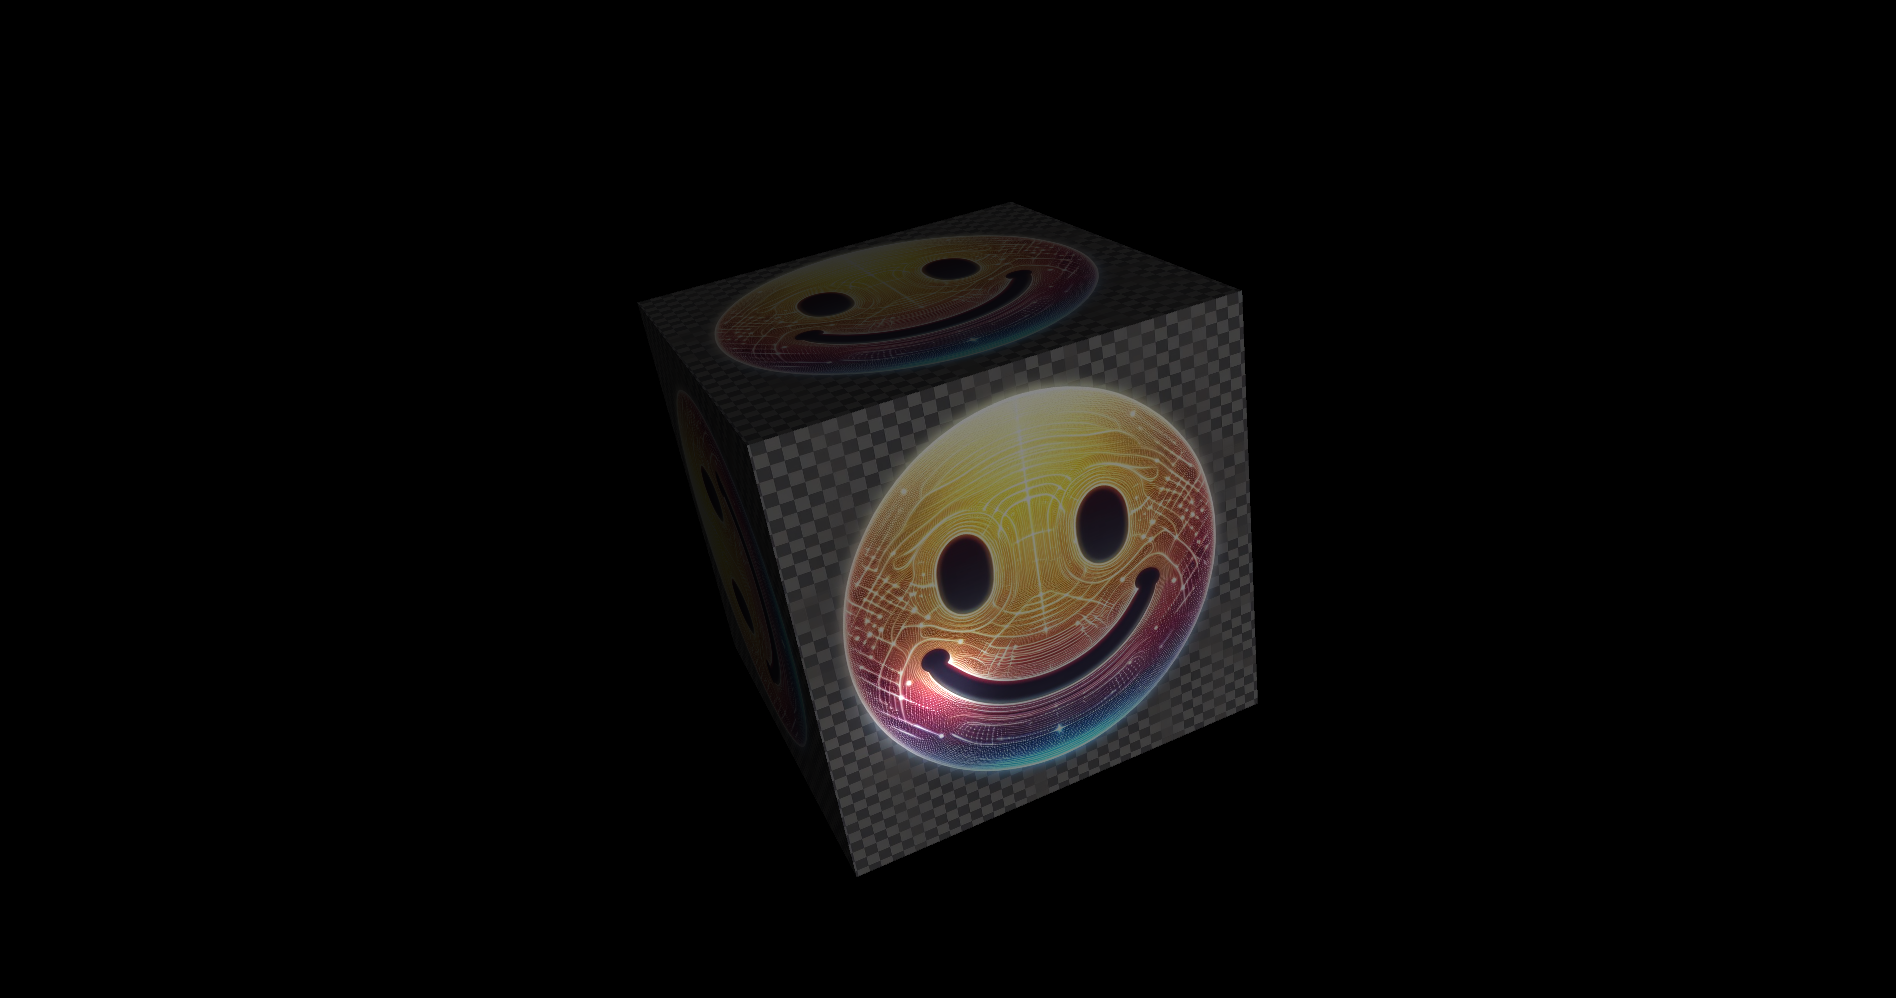
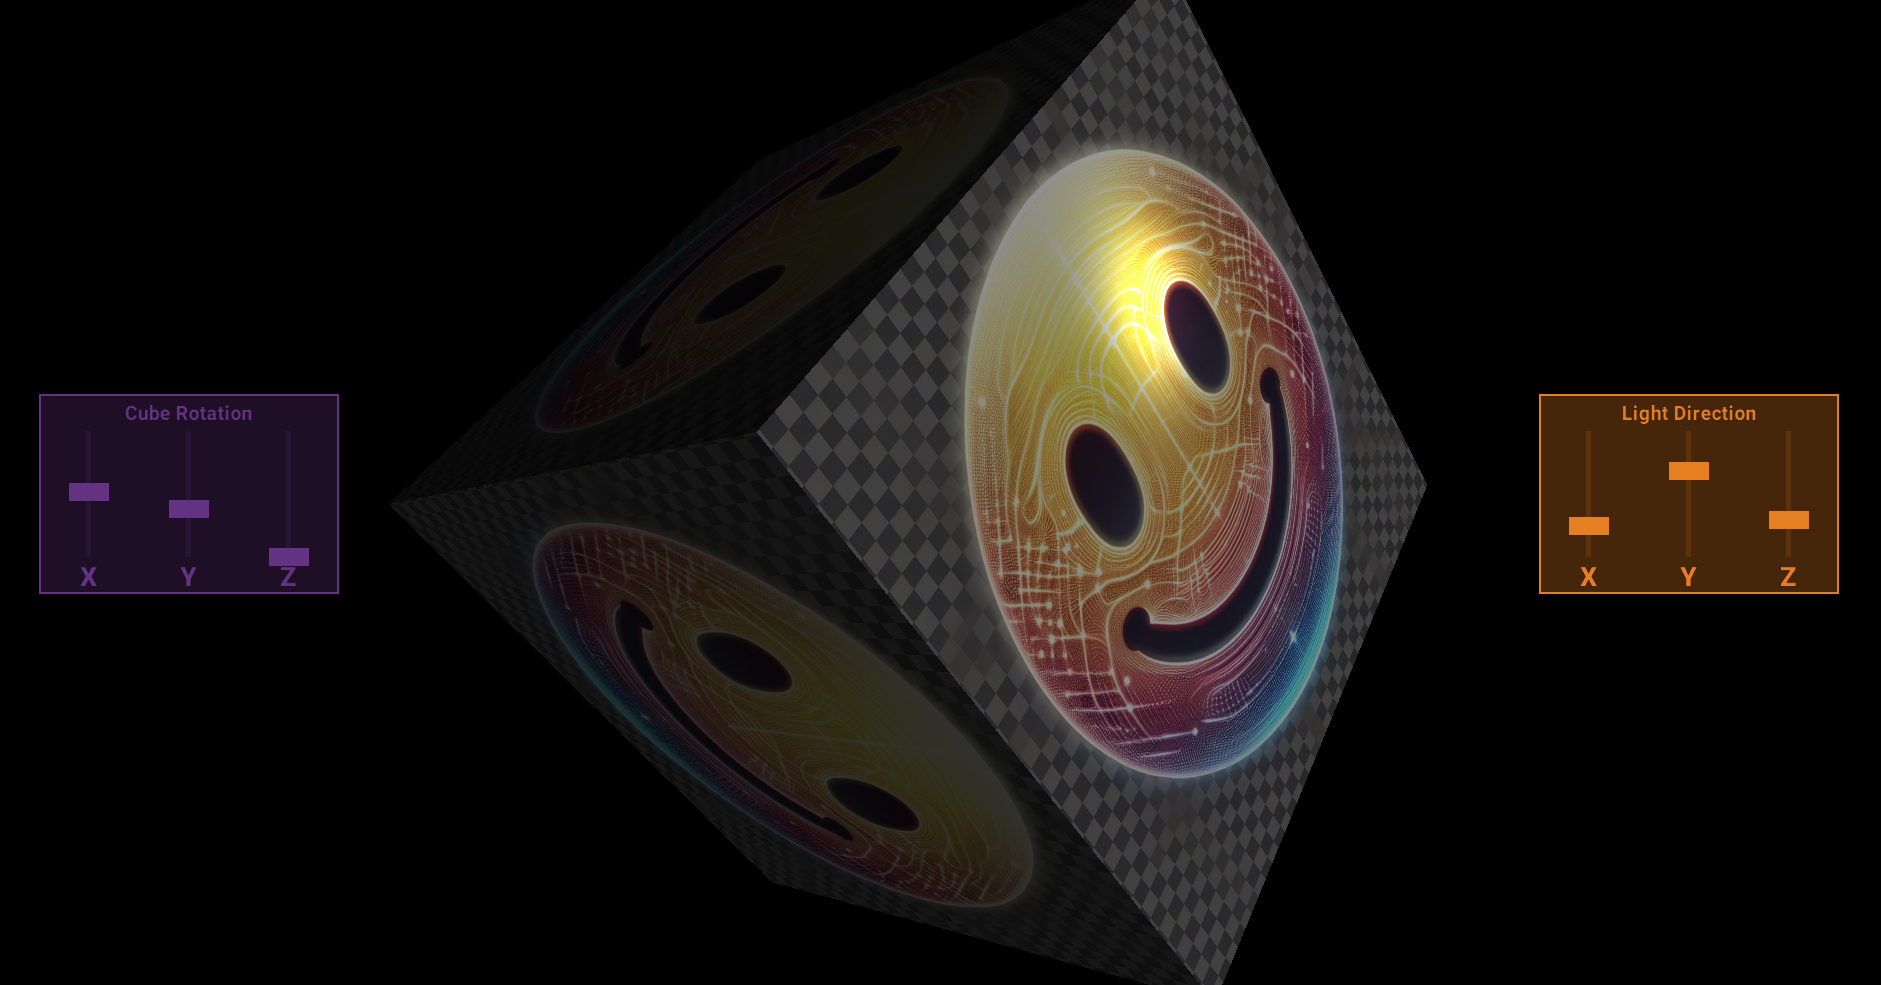
Fix TopCenter/BottomCenter anchoring and improve 3D example

Changed region(s): [[0.2775, 0.0, 0.7709, 1.0], [0.8017, 0.3959, 0.9867, 0.6091], [0.0, 0.3959, 0.185, 0.6091]]

diff --git a/examples/3d/object/viewer.go b/examples/3d/object/viewer.go
@@ -1,0 +1,203 @@
+package object
+
+import (
+	"github.com/go-gl/mathgl/mgl32"
+	"math"
+	"tonysoft.com/gfx"
+)
+
+func newRotationControl(window *gfx.Window, obj *gfx.Model) *gfx.View {
+	panel := gfx.NewView()
+	panel.SetAnchor(gfx.MiddleLeft)
+	panel.SetMarginLeft(.1)
+	panel.SetScale(mgl32.Vec3{0.3, .2})
+	panel.SetFillColor(gfx.Opacity(gfx.Purple, 0.3))
+	panel.SetBorderColor(gfx.Purple)
+	panel.SetBorderThickness(0.02)
+
+	rotSliderX := gfx.NewSlider(gfx.Vertical)
+	rotSliderY := gfx.NewSlider(gfx.Vertical)
+	rotSliderZ := gfx.NewSlider(gfx.Vertical)
+
+	panel.AddChild(rotSliderX)
+	panel.AddChild(rotSliderY)
+	panel.AddChild(rotSliderZ)
+
+	rotSliderX.SetWindow(window)
+	rotSliderX.SetScaleX(.3333)
+	rotSliderX.SetScaleY(.9)
+	rotSliderX.SetAnchor(gfx.MiddleLeft)
+	rotSliderX.SetFillColor(gfx.Transparent)
+	rotSliderX.Rail().SetColor(gfx.Darken(gfx.Purple, .6))
+	rotSliderX.Button().SetFillColor(gfx.Purple)
+	rotSliderX.Button().SetMouseEnterFillColor(gfx.Darken(gfx.Purple, .3))
+	rotSliderX.OnValueChanging(func(sender gfx.WindowObject, value float32) {
+		obj.SetRotationX(value * math.Pi)
+	})
+
+	rotSliderY.SetWindow(window)
+	rotSliderY.SetScaleX(.3333)
+	rotSliderY.SetScaleY(.9)
+	rotSliderY.SetAnchor(gfx.MiddleLeft)
+	rotSliderY.SetMarginLeft(rotSliderX.WorldScale().X() * 2)
+	rotSliderY.SetFillColor(gfx.Transparent)
+	rotSliderY.Rail().SetColor(gfx.Darken(gfx.Purple, .6))
+	rotSliderY.Button().SetFillColor(gfx.Purple)
+	rotSliderY.Button().SetMouseEnterFillColor(gfx.Darken(gfx.Purple, .3))
+	rotSliderY.OnValueChanging(func(sender gfx.WindowObject, value float32) {
+		obj.SetRotationY(value * math.Pi)
+	})
+
+	rotSliderZ.SetWindow(window)
+	rotSliderZ.SetScaleX(.3333)
+	rotSliderZ.SetScaleY(.9)
+	rotSliderZ.SetAnchor(gfx.MiddleLeft)
+	rotSliderZ.SetMarginLeft(rotSliderX.WorldScale().X() * 4)
+	rotSliderZ.SetFillColor(gfx.Transparent)
+	rotSliderZ.Rail().SetColor(gfx.Darken(gfx.Purple, .6))
+	rotSliderZ.Button().SetFillColor(gfx.Purple)
+	rotSliderZ.Button().SetMouseEnterFillColor(gfx.Darken(gfx.Purple, .3))
+	rotSliderZ.OnValueChanging(func(sender gfx.WindowObject, value float32) {
+		obj.SetRotationZ(value * math.Pi)
+	})
+
+	rotControlLabel := gfx.NewLabel()
+	rotControlLabel.SetText("Cube Rotation")
+	rotControlLabel.SetColor(gfx.Purple)
+	rotControlLabel.SetFontSize(.1)
+	rotControlLabel.SetAnchor(gfx.TopCenter)
+	rotControlLabel.SetMarginTop(.02)
+	panel.AddChild(rotControlLabel)
+
+	rotSliderXLabel := gfx.NewLabel()
+	rotSliderXLabel.SetColor(gfx.Purple)
+	rotSliderXLabel.SetFontSize(.15)
+	rotSliderXLabel.SetPositionY(-rotSliderX.WorldScale().Y() + (rotSliderX.WorldScale().Y() * .06))
+	rotSliderXLabel.SetText("X")
+	rotSliderX.AddChild(rotSliderXLabel)
+
+	rotSliderYLabel := gfx.NewLabel()
+	rotSliderYLabel.SetColor(gfx.Purple)
+	rotSliderYLabel.SetFontSize(.15)
+	rotSliderYLabel.SetPositionY(-rotSliderY.WorldScale().Y() + (rotSliderY.WorldScale().Y() * .06))
+	rotSliderYLabel.SetText("Y")
+	rotSliderY.AddChild(rotSliderYLabel)
+
+	rotSliderZLabel := gfx.NewLabel()
+	rotSliderZLabel.SetColor(gfx.Purple)
+	rotSliderZLabel.SetFontSize(.15)
+	rotSliderZLabel.SetPositionY(-rotSliderZ.WorldScale().Y() + (rotSliderZ.WorldScale().Y() * .06))
+	rotSliderZLabel.SetText("Z")
+	rotSliderZ.AddChild(rotSliderZLabel)
+
+	return panel
+}
+
+func newLightControl(window *gfx.Window, obj *gfx.Model) *gfx.View {
+	panel := gfx.NewView()
+
+	light := obj.GetLight(0)
+	if light == nil {
+		panel.SetScale(mgl32.Vec3{})
+		return panel
+	}
+
+	panel.SetAnchor(gfx.MiddleRight)
+	panel.SetMarginRight(.1)
+	panel.SetScale(mgl32.Vec3{0.3, .2})
+	panel.SetFillColor(gfx.Opacity(gfx.Orange, 0.3))
+	panel.SetBorderColor(gfx.Orange)
+	panel.SetBorderThickness(0.02)
+
+	dirSliderX := gfx.NewSlider(gfx.Vertical)
+	dirSliderY := gfx.NewSlider(gfx.Vertical)
+	dirSliderZ := gfx.NewSlider(gfx.Vertical)
+
+	panel.AddChild(dirSliderX)
+	panel.AddChild(dirSliderY)
+	panel.AddChild(dirSliderZ)
+
+	dirSliderX.SetWindow(window)
+	dirSliderX.SetScaleX(.3333)
+	dirSliderX.SetScaleY(.9)
+	dirSliderX.SetAnchor(gfx.MiddleLeft)
+	dirSliderX.SetFillColor(gfx.Transparent)
+	dirSliderX.Rail().SetColor(gfx.Darken(gfx.Orange, .6))
+	dirSliderX.Button().SetFillColor(gfx.Orange)
+	dirSliderX.Button().SetMouseEnterFillColor(gfx.Darken(gfx.Orange, .3))
+	dirSliderX.SetValue(.5)
+
+	dirSliderY.SetWindow(window)
+	dirSliderY.SetScaleX(.3333)
+	dirSliderY.SetScaleY(.9)
+	dirSliderY.SetAnchor(gfx.MiddleLeft)
+	dirSliderY.SetMarginLeft(dirSliderX.WorldScale().X() * 2)
+	dirSliderY.SetFillColor(gfx.Transparent)
+	dirSliderY.Rail().SetColor(gfx.Darken(gfx.Orange, .6))
+	dirSliderY.Button().SetFillColor(gfx.Orange)
+	dirSliderY.Button().SetMouseEnterFillColor(gfx.Darken(gfx.Orange, .3))
+	dirSliderY.SetValue(.5)
+
+	dirSliderZ.SetWindow(window)
+	dirSliderZ.SetScaleX(.3333)
+	dirSliderZ.SetScaleY(.9)
+	dirSliderZ.SetAnchor(gfx.MiddleLeft)
+	dirSliderZ.SetMarginLeft(dirSliderX.WorldScale().X() * 4)
+	dirSliderZ.SetFillColor(gfx.Transparent)
+	dirSliderZ.Rail().SetColor(gfx.Darken(gfx.Orange, .6))
+	dirSliderZ.Button().SetFillColor(gfx.Orange)
+	dirSliderZ.Button().SetMouseEnterFillColor(gfx.Darken(gfx.Orange, .3))
+	dirSliderZ.SetValue(.5)
+
+	dirSliderX.OnValueChanging(func(sender gfx.WindowObject, value float32) {
+		light.SetDirectionX((value * 20) - 11)
+	})
+	dirSliderY.OnValueChanging(func(sender gfx.WindowObject, value float32) {
+		light.SetDirectionY((value * 20) - 11)
+	})
+	dirSliderZ.OnValueChanging(func(sender gfx.WindowObject, value float32) {
+		light.SetDirectionZ((value * 20) - 11)
+	})
+
+	dirControlLabel := gfx.NewLabel()
+	dirControlLabel.SetText("Light Direction")
+	dirControlLabel.SetColor(gfx.Orange)
+	dirControlLabel.SetFontSize(.1)
+	dirControlLabel.SetAnchor(gfx.TopCenter)
+	dirControlLabel.SetMarginTop(.02)
+	panel.AddChild(dirControlLabel)
+
+	dirSliderXLabel := gfx.NewLabel()
+	dirSliderXLabel.SetColor(gfx.Orange)
+	dirSliderXLabel.SetFontSize(.15)
+	dirSliderXLabel.SetPositionY(-dirSliderX.WorldScale().Y() + (dirSliderX.WorldScale().Y() * .06))
+	dirSliderXLabel.SetText("X")
+	dirSliderX.AddChild(dirSliderXLabel)
+
+	dirSliderYLabel := gfx.NewLabel()
+	dirSliderYLabel.SetColor(gfx.Orange)
+	dirSliderYLabel.SetFontSize(.15)
+	dirSliderYLabel.SetPositionY(-dirSliderY.WorldScale().Y() + (dirSliderY.WorldScale().Y() * .06))
+	dirSliderYLabel.SetText("Y")
+	dirSliderY.AddChild(dirSliderYLabel)
+
+	dirSliderZLabel := gfx.NewLabel()
+	dirSliderZLabel.SetColor(gfx.Orange)
+	dirSliderZLabel.SetFontSize(.15)
+	dirSliderZLabel.SetPositionY(-dirSliderZ.WorldScale().Y() + (dirSliderZ.WorldScale().Y() * .06))
+	dirSliderZLabel.SetText("Z")
+	dirSliderZ.AddChild(dirSliderZLabel)
+
+	return panel
+}
+
+func NewViewer(window *gfx.Window, obj *gfx.Model) *gfx.View {
+	view := gfx.NewView()
+	view.SetMaintainAspectRatio(false)
+
+	view.AddChild(obj)
+	view.AddChild(newRotationControl(window, obj))
+	view.AddChild(newLightControl(window, obj))
+
+	return view
+}

diff --git a/color.go b/color.go
@@ -3,21 +3,22 @@ package gfx
 import "image/color"
 
 var (
-	White     = color.RGBA{R: 255, G: 255, B: 255, A: 255}
-	Black     = color.RGBA{A: 255}
-	LightGray = color.RGBA{R: 192, G: 192, B: 192, A: 255}
-	Gray      = color.RGBA{R: 128, G: 128, B: 128, A: 255}
-	DarkGray  = color.RGBA{R: 64, G: 64, B: 64, A: 255}
-	Red       = color.RGBA{R: 255, A: 255}
-	Green     = color.RGBA{G: 255, A: 255}
-	Blue      = color.RGBA{B: 255, A: 255}
-	Magenta   = color.RGBA{R: 255, B: 255, A: 255}
-	Yellow    = color.RGBA{R: 255, G: 255, A: 255}
-	Purple    = color.RGBA{R: 100, G: 50, B: 130, A: 255}
-	Orange    = color.RGBA{R: 230, G: 126, B: 34, A: 255}
-	Teal      = color.RGBA{R: 118, G: 215, B: 196, A: 255}
-	Maroon    = color.RGBA{R: 146, G: 43, B: 33, A: 255}
-	SkyBlue   = color.RGBA{R: 174, G: 170, B: 241, A: 255}
+	Transparent = color.RGBA{}
+	White       = color.RGBA{R: 255, G: 255, B: 255, A: 255}
+	Black       = color.RGBA{A: 255}
+	LightGray   = color.RGBA{R: 192, G: 192, B: 192, A: 255}
+	Gray        = color.RGBA{R: 128, G: 128, B: 128, A: 255}
+	DarkGray    = color.RGBA{R: 64, G: 64, B: 64, A: 255}
+	Red         = color.RGBA{R: 255, A: 255}
+	Green       = color.RGBA{G: 255, A: 255}
+	Blue        = color.RGBA{B: 255, A: 255}
+	Magenta     = color.RGBA{R: 255, B: 255, A: 255}
+	Yellow      = color.RGBA{R: 255, G: 255, A: 255}
+	Purple      = color.RGBA{R: 100, G: 50, B: 130, A: 255}
+	Orange      = color.RGBA{R: 230, G: 126, B: 34, A: 255}
+	Teal        = color.RGBA{R: 118, G: 215, B: 196, A: 255}
+	Maroon      = color.RGBA{R: 146, G: 43, B: 33, A: 255}
+	SkyBlue     = color.RGBA{R: 174, G: 170, B: 241, A: 255}
 )
 
 var (

diff --git a/examples/3d/view/cube.go b/examples/3d/view/cube.go
@@ -13,26 +13,25 @@ func NewCubeView(window *gfx.Window) gfx.WindowObject {
 	gfx.AddEmbeddedAsset("cube.mtl", models.Assets)
 	gfx.AddEmbeddedAsset("cube.png", textures.Assets)
 
-	camera1 := gfx.NewCamera()
-	camera1.
+	camera := gfx.NewCamera()
+	camera.
 		SetProjection(45, window.AspectRatio(), .5, 100).
 		SetUp(mgl32.Vec3{0, 1, 0}).
-		SetPosition(mgl32.Vec3{-2, 0, 2})
+		SetPosition(mgl32.Vec3{0, 0, 2})
 
-	light1 := gfx.NewLight()
-	light1.SetDirection(mgl32.Vec3{0, 0, -1})
+	light := gfx.NewLight()
+	light.SetDirection(mgl32.Vec3{0, 0, -1})
 
 	model := gfx.NewModel()
 	model.
 		SetOBJ("cube.obj").
 		SetMTL("cube.mtl").
 		SetTexture(gfx.NewTexture("cube.png")). // set using path to local PNG or loaded asset
-		//SetTexture(gfx.NewTexture(gfx.Red)). // set using a solid color
-		//SetTexture(gfx.NewTexture(myImage)). // set using *image.RGBA or *image.NRGBA
-		SetCamera(camera1).
-		AddLight(light1). // omit this for non-directional/specular lighting
+		//SetTexture(gfx.NewTexture(gfx.Red)).  // set using a solid color
+		//SetTexture(gfx.NewTexture(myImage)).  // set using *image.RGBA or *image.NRGBA
+		SetCamera(camera).
+		AddLight(light). // omit this for non-directional/non-specular lighting
 		SetName("Box")
 
-	rotObj := object.NewRotatingObject(model)
-	return rotObj
+	return object.NewViewer(window, model)
 }

diff --git a/light.go b/light.go
@@ -23,17 +23,35 @@ type Light struct {
 
 func (l *Light) Direction() mgl32.Vec3 {
 	l.stateMutex.Lock()
-	direction := mgl32.Vec3{l.direction[0], l.direction[1], l.direction[2]}
+	direction := l.direction
 	l.stateMutex.Unlock()
 	return direction
 }
 
 func (l *Light) SetDirection(direction mgl32.Vec3) *Light {
-	direction = direction.Normalize()
 	l.stateMutex.Lock()
-	l.direction[0] = direction[0]
-	l.direction[1] = direction[1]
-	l.direction[2] = direction[2]
+	l.direction = direction
+	l.stateMutex.Unlock()
+	return l
+}
+
+func (l *Light) SetDirectionX(x float32) *Light {
+	l.stateMutex.Lock()
+	l.direction[0] = x
+	l.stateMutex.Unlock()
+	return l
+}
+
+func (l *Light) SetDirectionY(y float32) *Light {
+	l.stateMutex.Lock()
+	l.direction[1] = y
+	l.stateMutex.Unlock()
+	return l
+}
+
+func (l *Light) SetDirectionZ(z float32) *Light {
+	l.stateMutex.Lock()
+	l.direction[2] = z
 	l.stateMutex.Unlock()
 	return l
 }

diff --git a/object.go b/object.go
@@ -323,11 +323,11 @@ func (o *WindowObjectBase) RefreshLayout() {
 	case BottomLeft:
 		o.SetPosition(mgl32.Vec3{left + leftOffset, bottom + bottomOffset})
 	case TopCenter:
-		o.SetPosition(mgl32.Vec3{-margin.Right + margin.Left, 1 - topOffset})
+		o.SetPosition(mgl32.Vec3{-margin.Right + margin.Left, top - topOffset})
 	case Center:
 		o.SetPosition(mgl32.Vec3{-margin.Right + margin.Left, -margin.Top + margin.Bottom})
 	case BottomCenter:
-		o.SetPosition(mgl32.Vec3{-margin.Right + margin.Left, -1 + bottomOffset})
+		o.SetPosition(mgl32.Vec3{-margin.Right + margin.Left, bottom + bottomOffset})
 	case TopRight:
 		o.SetPosition(mgl32.Vec3{right - rightOffset, top - topOffset})
 	case MiddleRight:

diff --git a/model.go b/model.go
@@ -164,7 +164,7 @@ func (m *Model) Draw(deltaTime int64) (ok bool) {
 		gl.UseProgram(m.shader)
 
 		light := m.lights[0]
-		lightDir := light.Direction()
+		lightDir := light.Direction().Normalize()
 		lightColor := light.Color()
 		viewPos := m.camera.Position()
 
@@ -415,6 +415,17 @@ func (m *Model) AddLight(light *Light) *Model {
 	m.lights = append(m.lights, light)
 	m.stateMutex.Unlock()
 	return m
+}
+
+func (m *Model) GetLight(index int) *Light {
+	m.stateMutex.Lock()
+	if index < 0 || index >= len(m.lights) {
+		m.stateMutex.Unlock()
+		return nil
+	}
+	light := m.lights[index]
+	m.stateMutex.Unlock()
+	return light
 }
 
 func (m *Model) RemoveLights() *Model {
